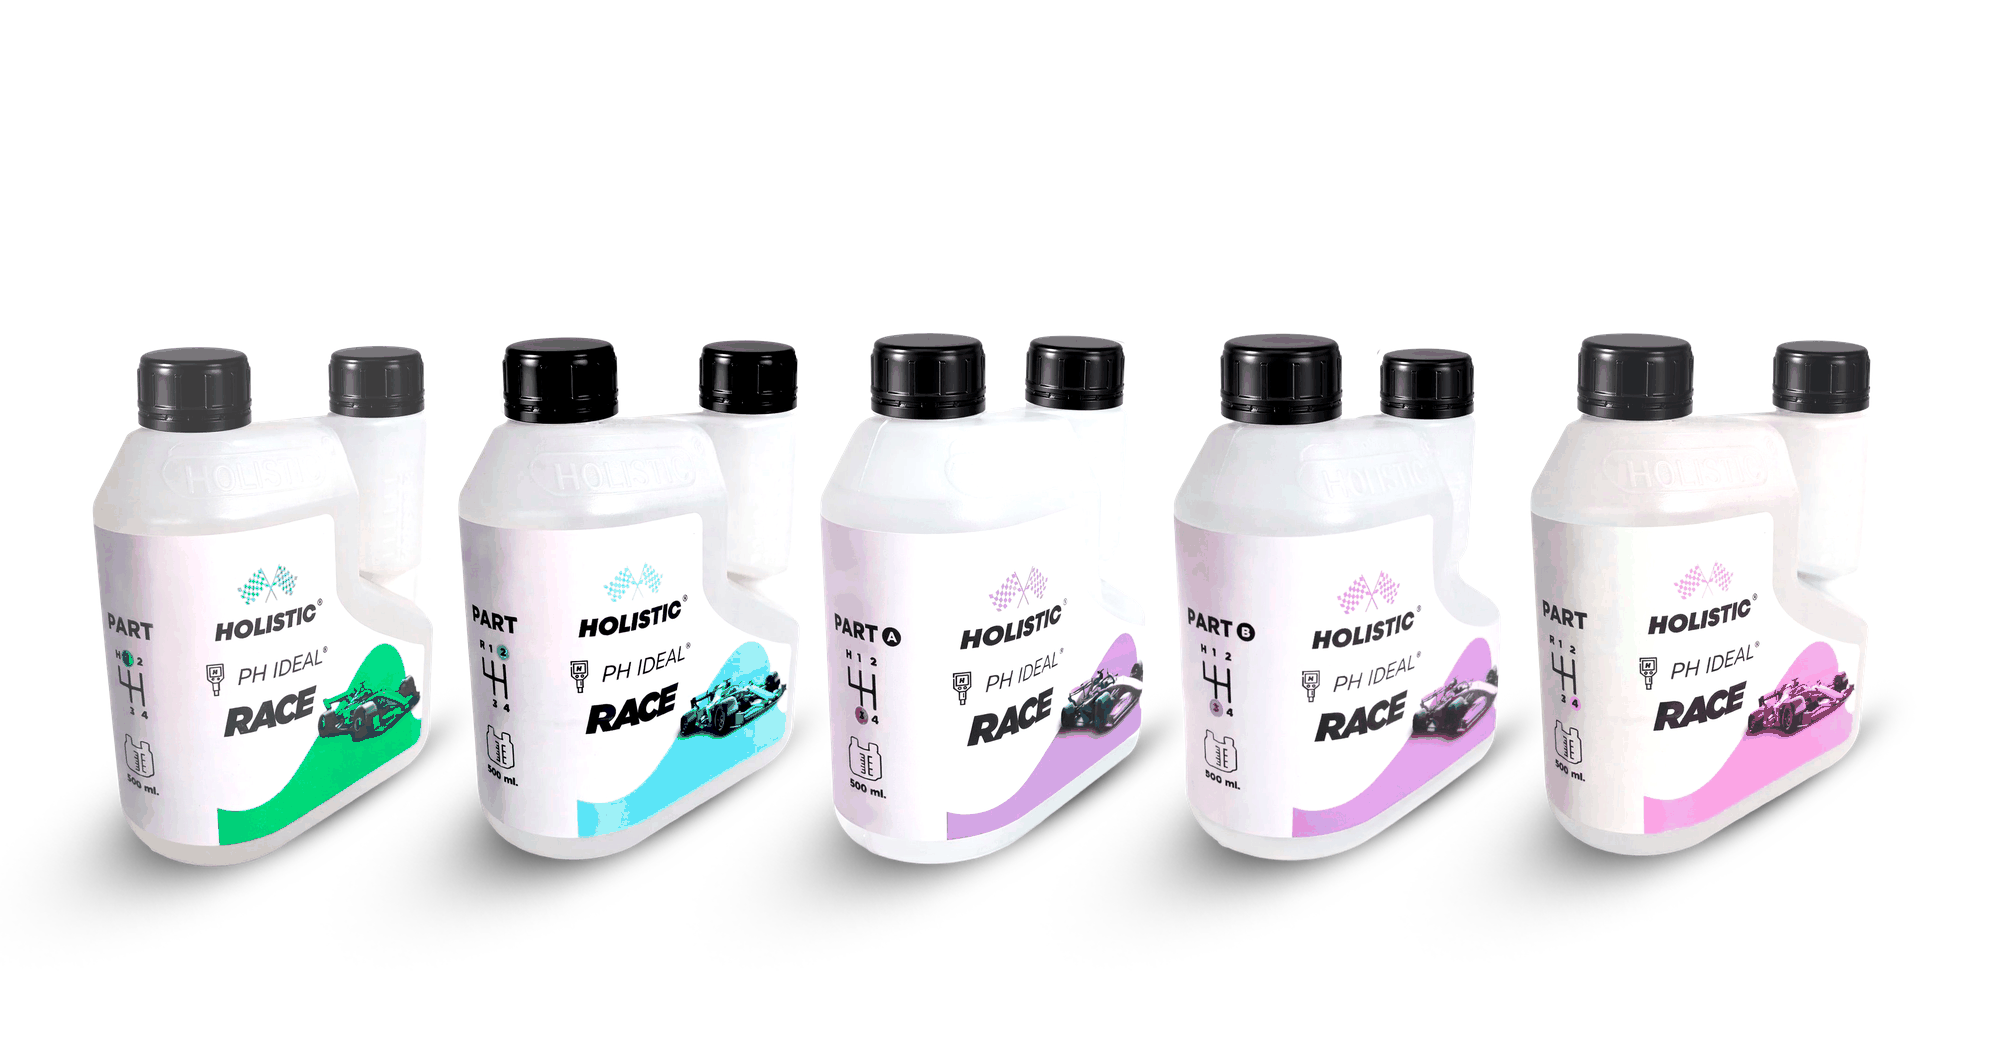
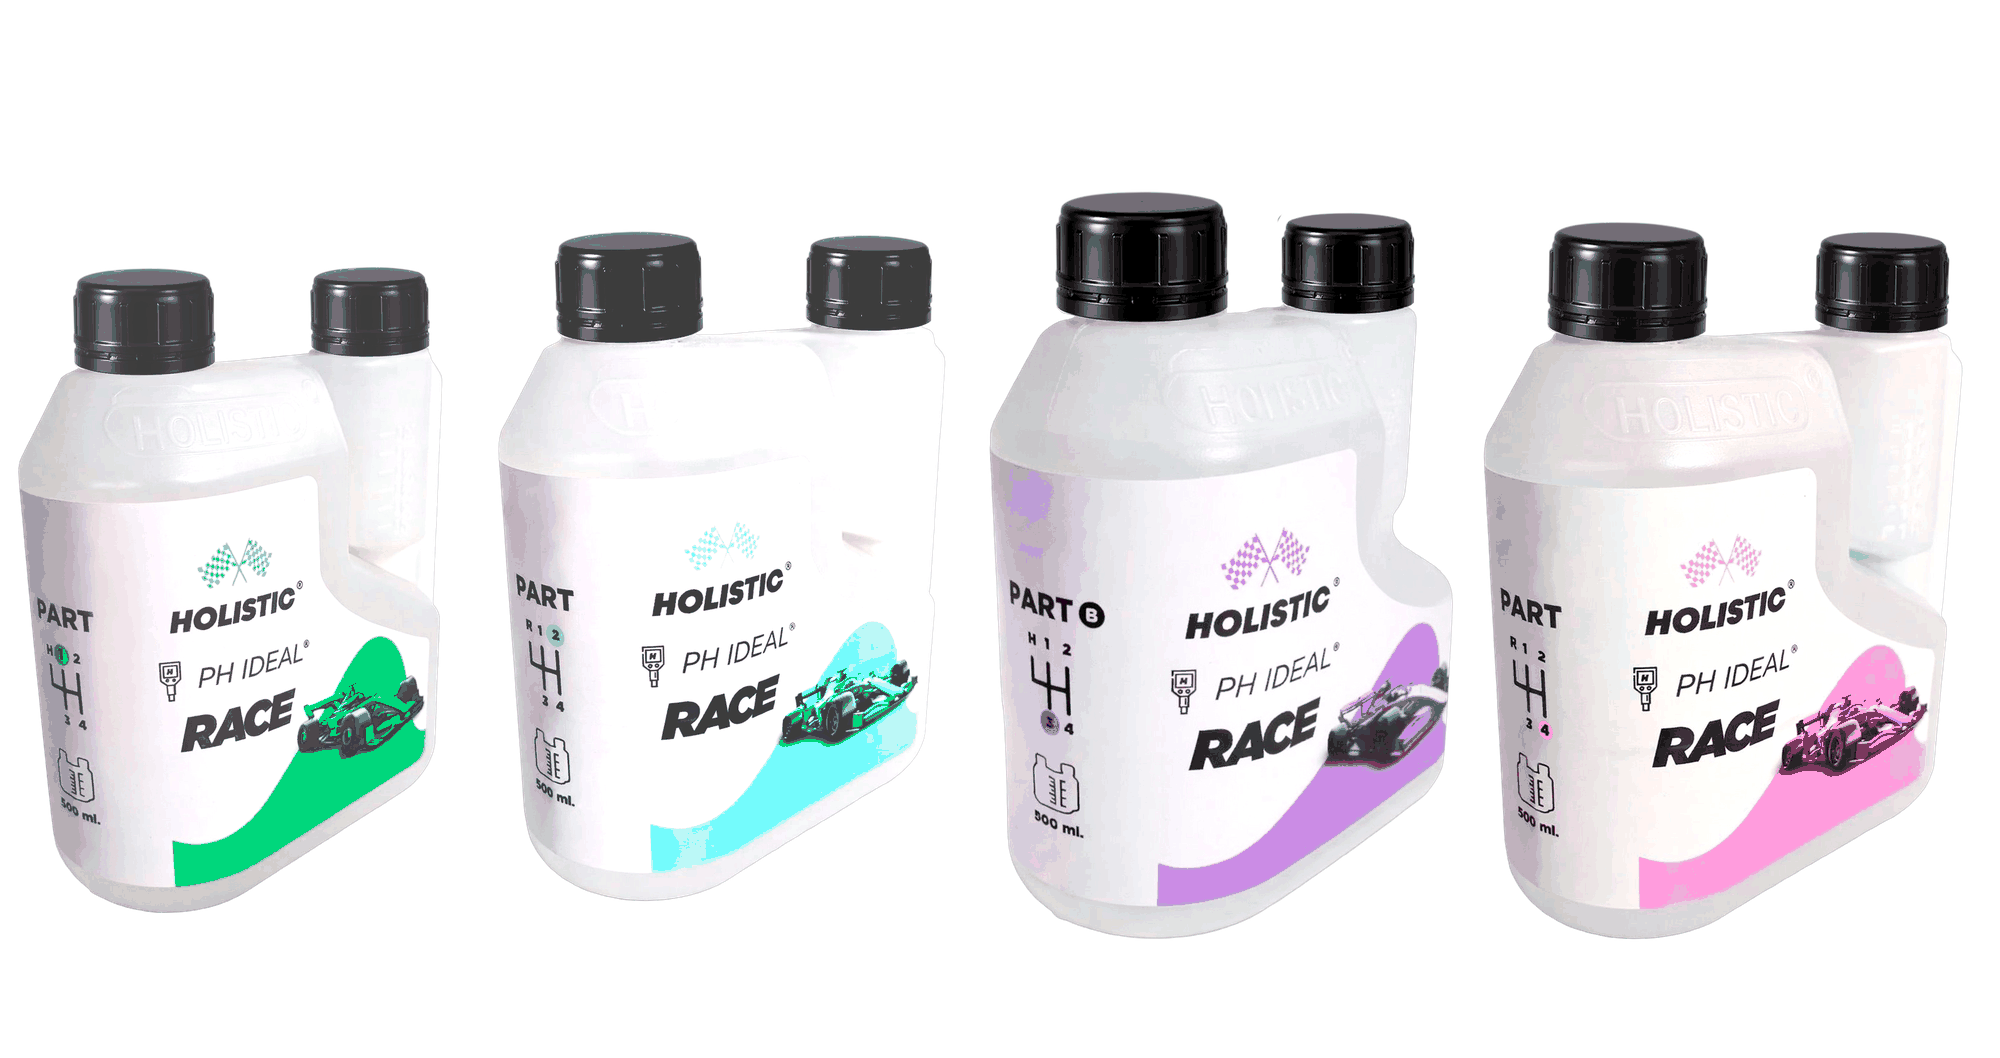
landing: Race 4 bidones (sin Violeta-A) — hero recompuesto + hotspots
User: 'tenes que arreglar LINEA RACE: el 3er pote de izq a der sacalo,
y el race ultimo el rosa, acomodar todo'.

El 3er pote del packshot original (Violeta-A) se elimina. Race queda
visualmente con 4 bidones: Verde / Celeste / Violeta-B / Rosado.

Cambios:
- Composite Pillow del nuevo hero.png: 4 packshots side-by-side desde
  Inicio/Productos/Linea Race/Race Separados/ (sin PART A Violeta).
  Target asp 1.89 (mismo que antes con 5 bidones, mantiene look).
  2000x1058, ~633K después de quantize 80 colors.
- violeta/bidon.png regenerado: solo Race 3 PART B Violeta.png
  (antes era composite A+B; ahora singular del que queda en el set).
- panels.js hotspots ajustados a 4 regiones equidistantes ~22-24%
  cada una:
    verde:    x:2  w:22 → 2-24%
    celeste:  x:26 w:22 → 26-48%
    violeta:  x:50 w:22 → 50-72%
    rosado:   x:74 w:24 → 74-98%
- 'Etapa 3 · Kit 2 partes' → 'Etapa 3' (ya no es kit, solo Parte B).

diff --git a/landing/src/data/panels.js b/landing/src/data/panels.js
@@ -142,12 +142,11 @@ export const panels = [
             hero: "/img/slider-spylt/linea-race/hero.png",
             silhouette: "/img/slider-spylt/linea-race/silhouette.png",
         },
-        // Sub-productos: Race son 4 fertilizantes en el packshot unificado.
-        // Violeta es un kit de 2 bidones (Parte A + Parte B) tratados como
-        // un único producto. El bidón.png del violeta es composite de
-        // ambas partes lado a lado, y el hotspot cubre ambas regiones
-        // (~37% del ancho del packshot — los 2 bidones violeta juntos).
-        // Orden visual del Race Juntos.png: Verde / Celeste / Violeta (A+B) / Rosado.
+        // Sub-productos: Race son 4 fertilizantes — Verde / Celeste /
+        // Violeta (solo Parte B) / Rosado. El packshot unificado se
+        // recompuso (hero.png) con sólo estos 4 bidones lado a lado:
+        // sacamos el Race 3 Parte A por pedido del cliente. Hotspots
+        // distribuidos en 4 regiones de ~24% cada una.
         subProducts: [
             {
                 slug: "verde",
@@ -158,7 +157,7 @@ export const panels = [
                 ruedas: "/img/slider-spylt/linea-race/sub/verde/ruedas.png",
                 texto: "/img/slider-spylt/linea-race/sub/verde/texto.png",
                 accentColor: "#c7f0dd",
-                hotspot: { x: 2, y: 10, w: 18, h: 80 },
+                hotspot: { x: 2, y: 10, w: 22, h: 80 },
             },
             {
                 slug: "celeste",
@@ -169,19 +168,18 @@ export const panels = [
                 ruedas: "/img/slider-spylt/linea-race/sub/celeste/ruedas.png",
                 texto: "/img/slider-spylt/linea-race/sub/celeste/texto.png",
                 accentColor: "#c8eaf3",
-                hotspot: { x: 21, y: 10, w: 18, h: 80 },
+                hotspot: { x: 26, y: 10, w: 22, h: 80 },
             },
             {
                 slug: "violeta",
                 nombre: "RACE VIOLETA",
-                tagline: "Etapa 3 · Kit 2 partes",
+                tagline: "Etapa 3",
                 base: "/img/slider-spylt/linea-race/sub/violeta/base.png",
                 pote: "/img/slider-spylt/linea-race/sub/violeta/bidon.png",
                 ruedas: "/img/slider-spylt/linea-race/sub/violeta/ruedas.png",
                 texto: "/img/slider-spylt/linea-race/sub/violeta/texto.png",
                 accentColor: "#b49ae0",
-                // Hotspot extendido cubre los 2 bidones violeta (A + B)
-                hotspot: { x: 40, y: 10, w: 37, h: 80 },
+                hotspot: { x: 50, y: 10, w: 22, h: 80 },
             },
             {
                 slug: "rosado",
@@ -192,7 +190,7 @@ export const panels = [
                 ruedas: "/img/slider-spylt/linea-race/sub/rosado/ruedas.png",
                 texto: "/img/slider-spylt/linea-race/sub/rosado/texto.png",
                 accentColor: "#f7d6dc",
-                hotspot: { x: 78, y: 10, w: 20, h: 80 },
+                hotspot: { x: 74, y: 10, w: 24, h: 80 },
             },
         ],
     },
